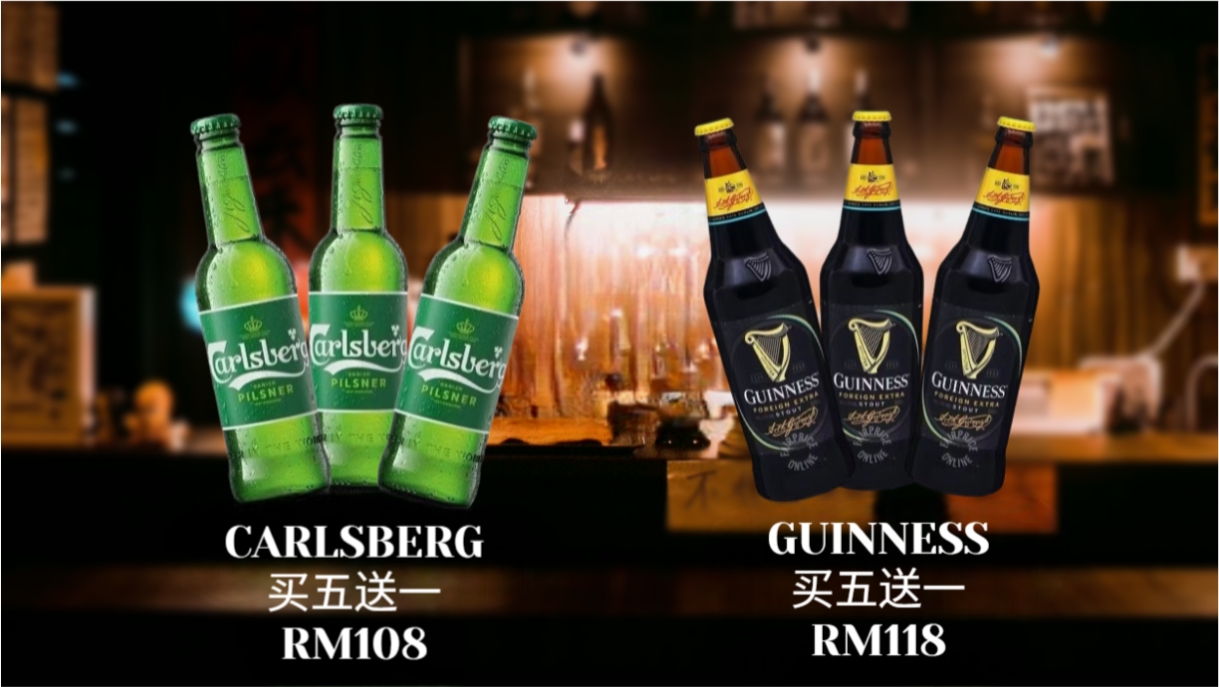
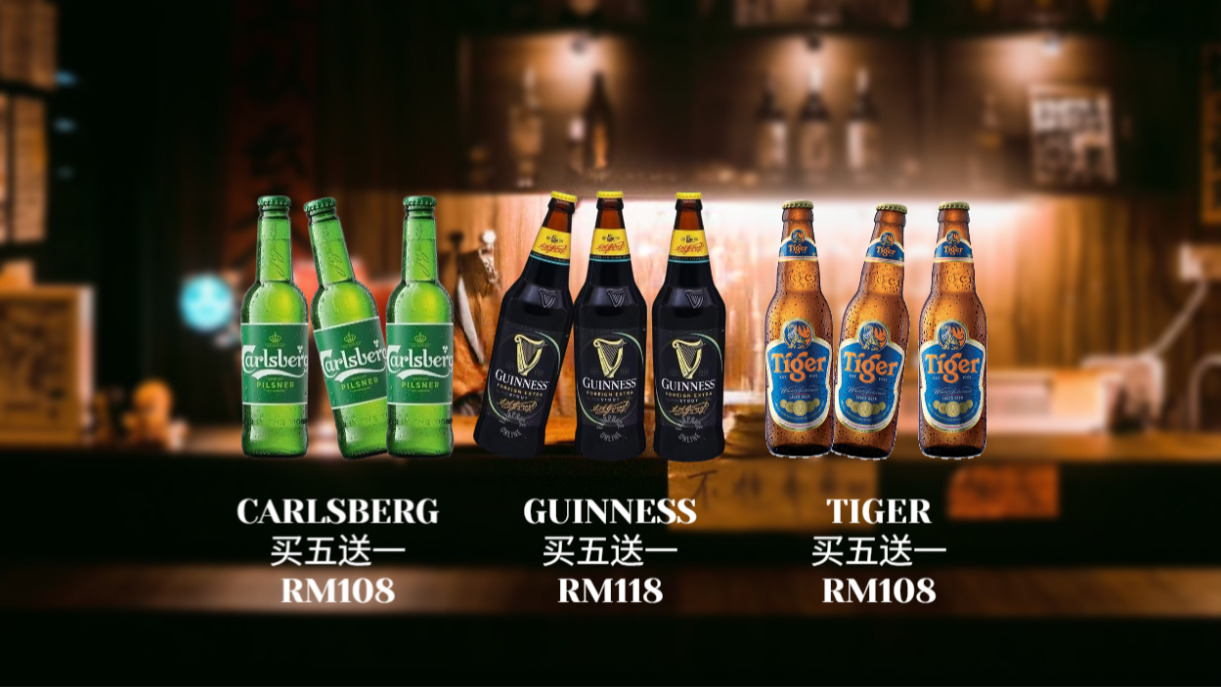
Add files via upload
upload

diff --git a/beverage.html b/beverage.html
@@ -72,6 +72,15 @@
                                     <p class="dish-price">RM108/5送1 BOTTLE</p>
                                 </div>
                             </div>
+                             <div class="menu-item">
+                                <img src="images/tiger.jpg" alt="TIGER" class="dish-image">
+                                <div class="dish-info">
+                                    <h3 class="dish-name">TIGER</h3>
+                                    <p class="dish-description"></p>
+                                    <p class="dish-price">RM22/BOTTLE</p>
+                                    <p class="dish-price">RM108/5送1 BOTTLE</p>
+                                </div>
+                            </div>
                             <div class="menu-item">
                                 <img src="images/guinness.jpg" alt="GUINNESS" class="dish-image">
                                 <div class="dish-info">
